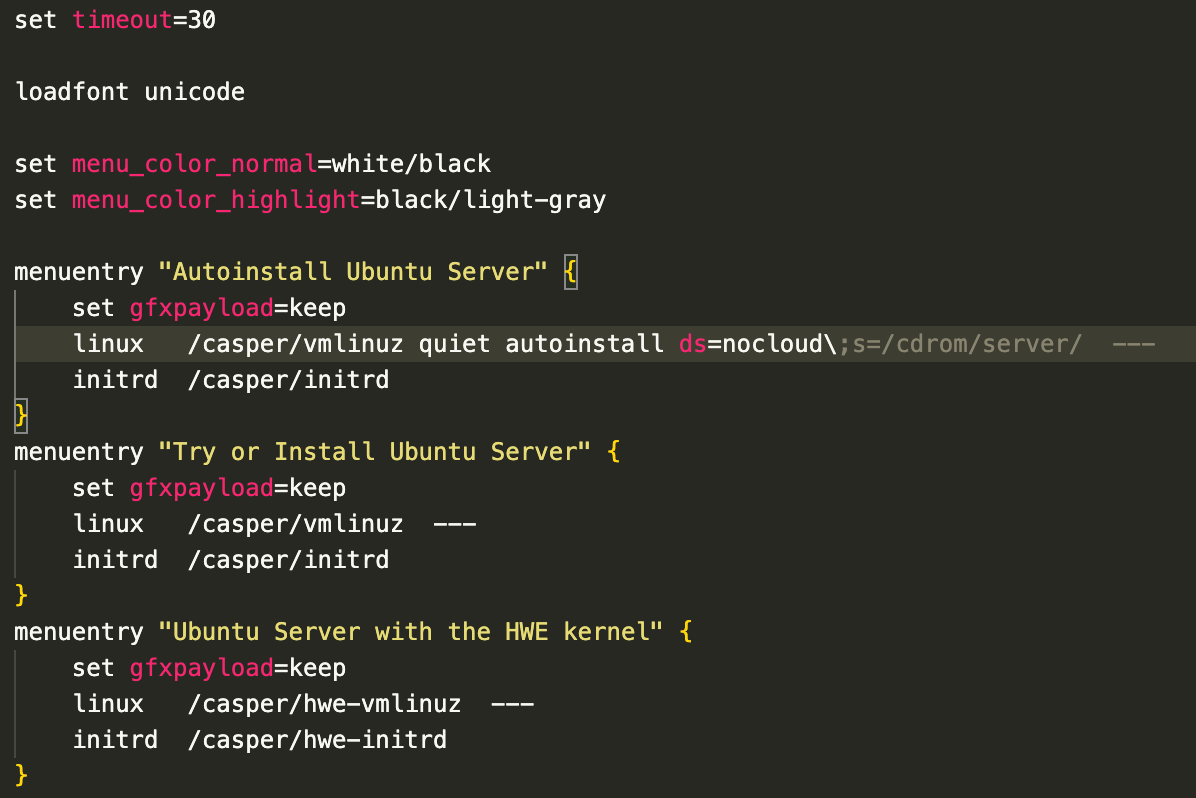
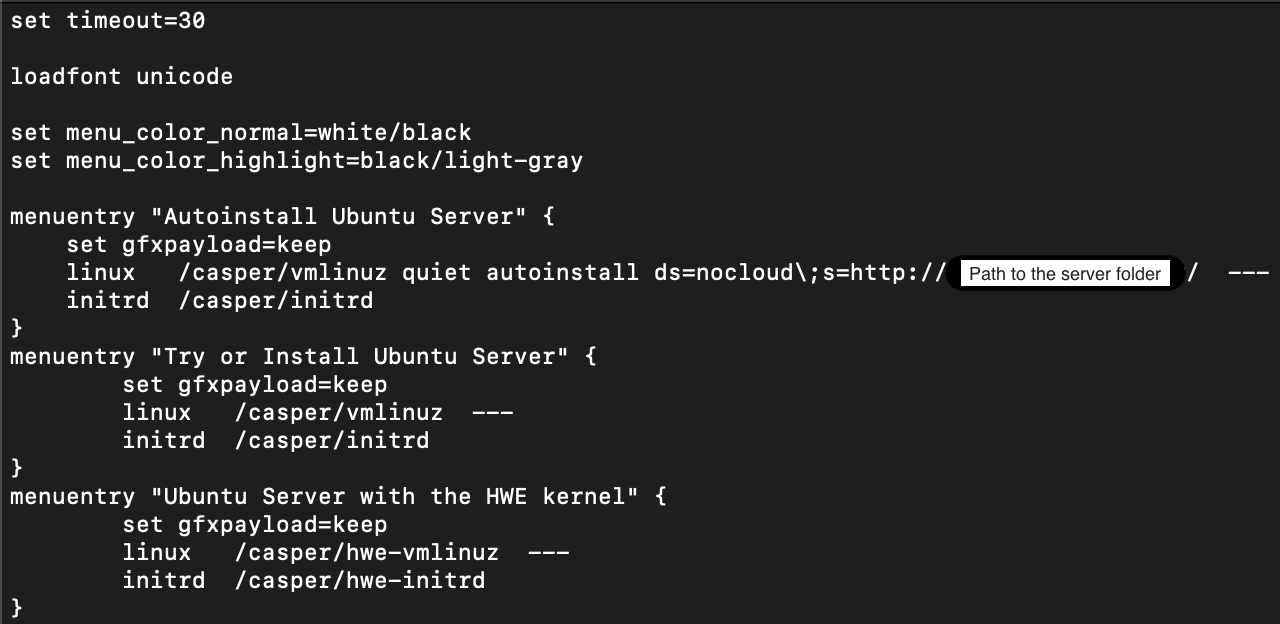
docs(idrac-os): updated the docs to use the files from a webserver

diff --git a/Documentation/Auto_install_ubuntu_iso.md b/Documentation/Auto_install_ubuntu_iso.md
@@ -38,8 +38,6 @@ mkdir source-files
 wget https://releases.ubuntu.com/jammy/ubuntu-22.04.5-live-server-amd64.iso
 ```
 
-From here on stay in the iso_files directory for all the rest of the commands.
-
 ### Step 2: Extract the ISO contents
 
 Use 7z to unpack the ISO. It will extract MBR and EFI partition images automatically.
@@ -60,8 +58,10 @@ cd ..
 
 Open **source-files/boot/grub/grub.cfg** and add the following menu entry above the existing ones (it should be the first menuentry option).
 
-This option will be shown during the Booting process and be automatically selected in 30 seconds, if there is no input from the user.
+This option will be shown during the Booting process as **Autoinstall Ubuntu Server** and be automatically selected in 30 seconds, if there is no input from the user.
 ![Booting Menu](../images/os-install/dell/BootMenu.png)
+
+#### If the server configuration files (**user-data** and **meta-data**) needs to be local to the ISO, then use the below menuentry definition
 
 ```bash
 menuentry "Autoinstall Ubuntu Server" {
@@ -71,71 +71,39 @@ initrd  /casper/initrd
 }
 ```
 
-Now, your grub.cfg file should look like ![this](../images/os-install/dell/GrubFile.png)
+#### If the server configuration files (**user-data** and **meta-data**) are stored on a remote server, and be picked dynamically use the below menuentry definition, and make sure the web server is up and running and the files as accessible
+
+```bash
+menuentry "Autoinstall Ubuntu Server" {
+set gfxpayload=keep
+linux   /casper/vmlinuz quiet autoinstall ds=nocloud\;s=http://ip-address/path-to-server-folder/  ---
+initrd  /casper/initrd
+}
+```
+
+Where the **server** folder contains the **user-data** and the **meta-data** files.
 
 ### Step 5: Create a directory for auto-install configuration files
 
 This directory will hold the user-data and meta-data files required to build the auto-install iso
 
 ```bash
-mkdir source-files/server
+mkdir server
 ```
 
-### Step 6: Add an empty meta-data file (cloud-init requires its presence)
+### Step 6: Create a meta-data file (cloud-init requires its presence) under the server directory
 
 ```bash
-touch source-files/server/meta-data
+touch server/meta-data
 ```
 
-### Step 7: Create a user-data file
+You can find the sample **meta-data** file [here](../ansible/iso_files/server/meta-data)
+
+### Step 7: Create a user-data file in the server directory
 
 This file will contain the auto-install user configuration. You can add your own settings here.
 
-The below are the current settings(user-data) that we are using, you can refer to the Ubuntu Autoinstall documentation for more details.
-
-```bash
-autoinstall:
-version: 1
-early-commands:
-    - ["cat", "/autoinstall.yaml"]
-refresh-installer:
-    update: yes
-apt:
-    preserve_sources_list: false
-    mirror-selection:
-    primary:
-        - country-mirror
-        - uri: "http://archive.ubuntu.com/ubuntu"
-        arches: [i386, amd64]
-        - uri: "http://ports.ubuntu.com/ubuntu-ports"
-        arches: [s390x, arm64, armhf, powerpc, ppc64el, riscv64]
-    fallback: abort
-    geoip: true
-    sources:
-    git-ppa:
-        source: ppa:git-core/ppa
-identity:
-    hostname: opi
-    password: "hashedpassword"
-    realname: opi
-    username: opi
-keyboard:
-    layout: us
-    toggle: ""
-    variant: ""
-locale: en_US
-ssh:
-    allow-pw: true
-    authorized-keys: []
-    install-server: true
-storage:
-    layout:
-    name: lvm
-    match:
-        size: largest
-late-commands:
-    - 'echo ''APT::Install-Recommends "false";'' >/target/etc/apt/apt.conf.d/02InstallRecommends'
-```
+You can refer to the Ubuntu Autoinstall documentation for more details. You can find the sample **user-data** file [here](../ansible/iso_files/server/user-data).
 
 Under the Identity section, we need to provide a hashed password, which can be done using the following commands
 
@@ -143,9 +111,37 @@ Under the Identity section, we need to provide a hashed password, which can be d
 openssl passwd -6
 ```
 
-This will prompt you to enter a password, which will be hashed and displayed. You can then copy it to the autoinstall user-data file above.
+This will prompt you to enter a password, which will be hashed and displayed. You can then update the **user-data**** file with the latest password using the below command
+
+```bash
+sed -i 's/password: ".*"/password: "<<Password_from_above_openssl_command>>"/' ~/lab/ansible/iso_files/server/user-data
+```
+
+**Note:** If the server configuration files need to be local to the ISO, then keep the **server** folder under the **source-files** directory. Else keep the **server** folder in the accessible remote server.
 
 ### Step 8: Generate the Custom Ubuntu 22.04 Autoinstall ISO
+
+Make sure this is the directory structure before you run the below commands
+
+```plaintext
+iso_files
+├── ubuntu-22.04.5-live-server-amd64.iso
+├── BOOT
+├── source-files
+│   ├── server
+│   │   ├── meta-data
+│   │   └── user-data
+│   ├── boot
+│   ├── └── grub
+│   ├────── └── grub.cfg
+│   ├── casper
+│   ├── dists
+│   ├── EFI
+│   ├── install
+│   ├── md5sum.txt
+│   ├── pool
+│   └── boot.catalog
+```
 
 To generate the custom Ubuntu 22.04 autoinstall ISO, you can use the following command
 
@@ -163,7 +159,7 @@ xorriso -as mkisofs -r \
 -iso_mbr_part_type a2a0d0ebe5b9334487c068b6b72699c7 \
 -c '/boot.catalog' \
 -b '/boot/grub/i386-pc/eltorito.img' \
-    -no-emul-boot -boot-load-size 4 -boot-info-table --grub2-boot-info \
+-no-emul-boot -boot-load-size 4 -boot-info-table --grub2-boot-info \
 -eltorito-alt-boot \
 -e '--interval:appended_partition_2:::' \
 -no-emul-boot \
@@ -171,3 +167,11 @@ xorriso -as mkisofs -r \
 ```
 
 This will create a new autoinstall iso with the name: **ubuntu-22.04-autoinstall.iso**, that can be used for installation.
+
+### Subsequent Autoinstall ISO updates
+
+For updates to the Autoinstall ISO:
+
+If the server configuration files are local to the ISO, then update the configuration files (**user-data** and **meta-data** files) in Step 6 and Step 7, then run **xorriso** command in Step 8 to create an updated ISO.
+
+Else, if the server configuration files are stored on a remote server. All you need to do is just make the modifications to the **user-data** and the **meta-data** file in the remote server and re-install the OS using the same ISO. It will automatically pick the latest updates.
